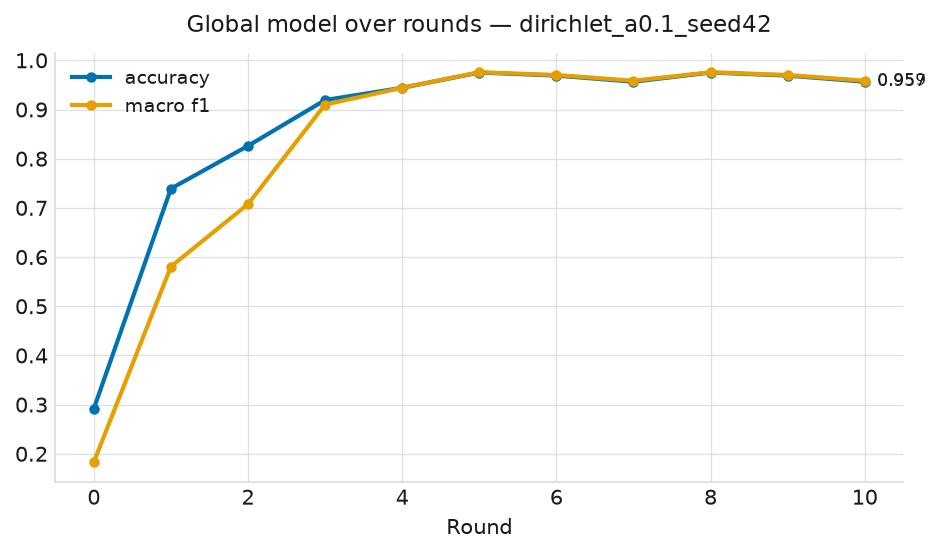
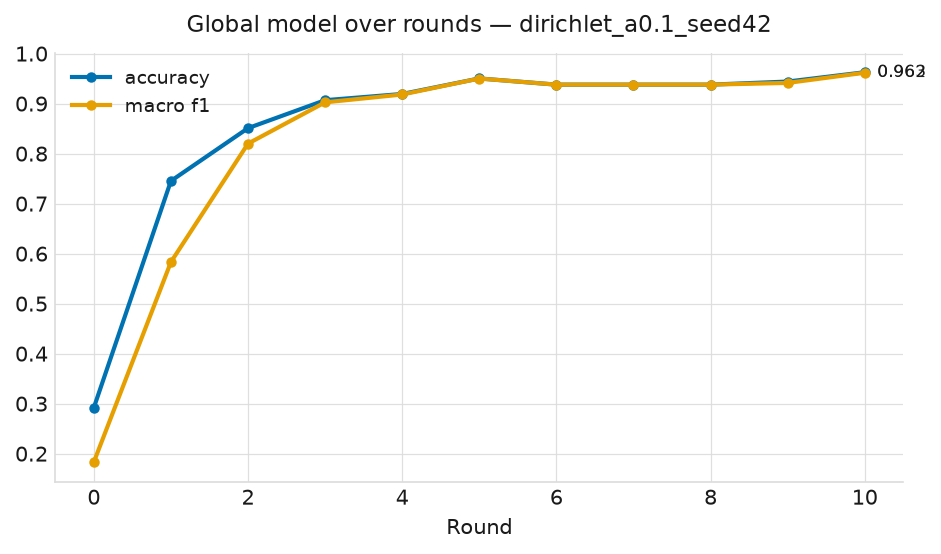
Verify FedAvg convergence; fix slug collision and client seeding
Answers the question the results could not previously support: does FedAvg
converge, and how does it compare to the centralized ceiling?

Convergence (all runs settle within 10 rounds):

  run              rounds-to-99%   final macro-F1   final loss   gap
  IID                     2            1.0000         0.0039    0.0000
  Dirichlet a=1.0         2            1.0000         0.0095    0.0000
  Dirichlet a=0.5         1            0.9866         0.0257    0.0134
  Dirichlet a=0.1         5            0.9585         0.1698    0.0415

Macro-F1 saturates and hides the real effect; the loss does not. At a=0.1
FedAvg settles at a loss ~44x the IID run's and stays there -- a worse
optimum, not merely slower convergence. New convergence.png plots both.

Two defects found while verifying:

  run_slug omitted `norm`, so the LayerNorm ablation wrote to the same
  directory as the BatchNorm run and silently destroyed it. Any knob that
  changes the result must appear in the slug; `norm` is now suffixed when it
  differs from the default, leaving existing paths unchanged.

  Federated runs were not reproducible: identical configs differed by ~0.015
  macro-F1. ClientApps run in separate simulation workers that never seeded,
  so dropout and shuffling varied per run. client_app now seeds on
  (seed, partition, round). This removes the client-side source but not all
  of it -- FedAvg aggregates replies in nondeterministic arrival order and
[…]

diff --git a/fl_rnaseq/scripts/make_report.py b/fl_rnaseq/scripts/make_report.py
@@ -193,6 +193,116 @@ def plot_alpha_sweep(df: pd.DataFrame, path: Path) -> None:
     plt.close(fig)
 
 
+def plot_convergence(rows: list[dict], df: pd.DataFrame, path: Path) -> None:
+    """FedAvg convergence across all federated runs, against the centralized ceiling.
+
+    Two panels sharing a round axis: macro-F1 (does it reach the ceiling?) and
+    test loss on a log scale (does it actually settle, and where?). The loss panel
+    is the informative one -- macro-F1 saturates and hides the fact that the
+    a=0.1 run plateaus at a far worse optimum rather than merely converging slower.
+    """
+    import matplotlib
+    matplotlib.use("Agg")
+    import matplotlib.pyplot as plt
+
+    fed = [r for r in rows if r["_family"] == "federated" and r.get("history")]
+    if not fed:
+        return
+    fed.sort(key=lambda r: (r["config"].get("alpha") is not None,
+                            -(r["config"].get("alpha") or 0)))
+
+    # Fixed hue per configuration, assigned in display order and never cycled.
+    colors = ["#0072B2", "#E69F00", "#009E73", "#D55E00", "#CC79A7"]
+    ceiling = df[df["family"] == "centralized"]["macro_f1"].max()
+
+    fig, (ax_f1, ax_loss) = plt.subplots(
+        1, 2, figsize=(11.4, 4.2), gridspec_kw={"wspace": 0.22}
+    )
+
+    for i, r in enumerate(fed):
+        h = r["history"]
+        rounds = [x["round"] for x in h]
+        label = r["slug"].replace("_seed42", "")
+        c = colors[i % len(colors)]
+        ax_f1.plot(rounds, [x["macro_f1"] for x in h], linewidth=2, marker="o",
+                   markersize=4, color=c, label=label)
+        ax_loss.plot(rounds, [x["loss"] for x in h], linewidth=2, marker="o",
+                     markersize=4, color=c, label=label)
+
+    if pd.notna(ceiling):
+        ax_f1.axhline(ceiling, color=INK_MUTED, linewidth=1, linestyle="--")
+        ax_f1.annotate(f"centralized {ceiling:.3f}", (0, ceiling),
+                       textcoords="offset points", xytext=(4, -12),
+                       fontsize=8, color=INK)
+
+    ax_f1.set_ylabel("macro-F1 on the global test set", color=INK)
+    ax_f1.set_title("Convergence: does it reach the ceiling?",
+                    color=INK, fontsize=10.5, pad=8)
+    ax_loss.set_yscale("log")
+    ax_loss.set_ylabel("test cross-entropy (log scale)", color=INK)
+    ax_loss.set_title("Convergence: where does the loss settle?",
+                      color=INK, fontsize=10.5, pad=8)
+
+    for ax in (ax_f1, ax_loss):
+        ax.set_xlabel("FedAvg round", color=INK)
+        ax.set_axisbelow(True)
+        ax.grid(True, color=GRID, linewidth=0.6)
+        for side in ("top", "right"):
+            ax.spines[side].set_visible(False)
+        for side in ("left", "bottom"):
+            ax.spines[side].set_color(GRID)
+        ax.tick_params(colors=INK_MUTED, length=0)
+        for lbl in ax.get_xticklabels() + ax.get_yticklabels():
+            lbl.set_color(INK)
+    ax_f1.legend(frameon=False, labelcolor=INK, fontsize=8.5, loc="lower right")
+
+    path.parent.mkdir(parents=True, exist_ok=True)
+    fig.savefig(path, dpi=150, bbox_inches="tight")
+    plt.close(fig)
+
+
+def _print_convergence_check(rows: list[dict], df: pd.DataFrame) -> None:
+    """Quantitative convergence verdict per federated run, versus the ceiling.
+
+    Reports rounds-to-99%-of-final (speed), the spread over the last three rounds
+    (has it settled, or is it still oscillating?), the final loss, and the gap to
+    the best centralized model.
+    """
+    fed = [r for r in rows if r["_family"] == "federated" and r.get("history")]
+    if not fed:
+        return
+    ceiling = df[df["family"] == "centralized"]["macro_f1"].max()
+
+    print(f"\nConvergence check (centralized ceiling = {ceiling:.4f})\n")
+    print(f"  {'run':<22}{'rounds':>8}{'final F1':>10}{'last-3 spread':>15}"
+          f"{'final loss':>12}{'gap':>9}")
+    print("  " + "-" * 76)
+
+    for r in sorted(fed, key=lambda r: r["slug"]):
+        h = r["history"]
+        f1 = [x["macro_f1"] for x in h]
+        final = f1[-1]
+        # First round reaching 99% of the final score.
+        hit = next((x["round"] for x in h if x["macro_f1"] >= 0.99 * final), None)
+        spread = max(f1[-3:]) - min(f1[-3:])
+        loss = h[-1]["loss"]
+        gap = ceiling - final
+        verdict = "settled" if spread <= 0.02 else "oscillating"
+        print(
+            f"  {r['slug'].replace('_seed42',''):<22}{hit if hit is not None else '-':>8}"
+            f"{final:>10.4f}{spread:>15.4f}{loss:>12.4f}{gap:>9.4f}  {verdict}"
+        )
+
+    losses = {r["slug"].replace("_seed42", ""): r["history"][-1]["loss"] for r in fed}
+    if "iid" in losses:
+        worst = max(losses, key=losses.get)
+        if worst != "iid" and losses["iid"] > 0:
+            print(
+                f"\n  Final loss for {worst} is {losses[worst] / losses['iid']:.0f}x the IID run's. "
+                "Under strong\n  heterogeneity FedAvg settles at a worse optimum, not merely a slower one."
+            )
+
+
 def _style(ax) -> None:
     ax.set_axisbelow(True)
     ax.grid(True, axis="y", color=GRID, linewidth=0.6)
@@ -229,6 +339,9 @@ def main() -> int:
 
     plot_headline(df, out / "headline_comparison.png")
     plot_alpha_sweep(df, out / "alpha_sweep.png")
+    plot_convergence(rows, df, out / "convergence.png")
+
+    _print_convergence_check(rows, df)
 
     env_lines = [f"split: {sha}", ""]
     if rows:

diff --git a/fl_rnaseq/fl_rnaseq/client_app.py b/fl_rnaseq/fl_rnaseq/client_app.py
@@ -11,8 +11,30 @@ from flwr.clientapp import ClientApp
 
 from fl_rnaseq.dataset import load_data
 from fl_rnaseq.task import MLP, test, train
+from fl_rnaseq.utils import set_seed
 
 app = ClientApp()
+
+
+def _seed_client(msg: Message, context: Context) -> None:
+    """Make this client's local training reproducible.
+
+    Each ClientApp invocation runs in its own simulation worker process, which
+    starts with unseeded RNG state -- so without this, dropout masks and
+    DataLoader shuffling differ between otherwise identical runs, and repeated
+    runs of the same config disagree by ~0.01 macro-F1.
+
+    The seed mixes in the round (Message.group_id) so a client does not replay
+    the identical dropout pattern every round, while staying deterministic
+    across runs.
+    """
+    try:
+        rnd = int(msg.metadata.group_id)
+    except (TypeError, ValueError):
+        rnd = 0
+    base = int(context.run_config["seed"])
+    pid = int(context.node_config["partition-id"])
+    set_seed(base * 100_000 + pid * 1_000 + rnd)
 
 
 def _loaders(context: Context):
@@ -34,6 +56,7 @@ def _loaders(context: Context):
 @app.train()
 def train_fn(msg: Message, context: Context) -> Message:
     cfg = context.run_config
+    _seed_client(msg, context)
     model = MLP(norm=cfg["norm"])
     model.load_state_dict(msg.content["arrays"].to_torch_state_dict())
     device = torch.device("cuda:0" if torch.cuda.is_available() else "cpu")
@@ -53,6 +76,7 @@ def train_fn(msg: Message, context: Context) -> Message:
 @app.evaluate()
 def evaluate_fn(msg: Message, context: Context) -> Message:
     cfg = context.run_config
+    _seed_client(msg, context)
     model = MLP(norm=cfg["norm"])
     model.load_state_dict(msg.content["arrays"].to_torch_state_dict())
     device = torch.device("cuda:0" if torch.cuda.is_available() else "cpu")

diff --git a/fl_rnaseq/fl_rnaseq/utils.py b/fl_rnaseq/fl_rnaseq/utils.py
@@ -88,14 +88,24 @@ def communication_cost(model: torch.nn.Module, num_clients: int, num_rounds: int
     }
 
 
-def run_slug(strategy: str, alpha: float | None = None, seed: int = 42) -> str:
+def run_slug(
+    strategy: str,
+    alpha: float | None = None,
+    seed: int = 42,
+    norm: str = "batch",
+) -> str:
     """Canonical directory name for one experiment configuration.
 
     Single source of truth so scripts and server_app cannot drift apart.
+
+    Every knob that changes the result must appear here, or two different
+    experiments write to the same directory and the second silently destroys the
+    first. `norm` is suffixed only when it differs from the default, so existing
+    result paths keep their names.
     """
-    if strategy == "iid" or alpha is None:
-        return f"iid_seed{seed}"
-    return f"{strategy}_a{alpha}_seed{seed}"
+    base = f"iid_seed{seed}" if (strategy == "iid" or alpha is None) \
+        else f"{strategy}_a{alpha}_seed{seed}"
+    return base if norm == "batch" else f"{base}_norm-{norm}"
 
 
 def _jsonable(obj: Any) -> Any:

diff --git a/fl_rnaseq/fl_rnaseq/server_app.py b/fl_rnaseq/fl_rnaseq/server_app.py
@@ -94,7 +94,7 @@ def main(grid: Grid, context: Context) -> None:
         evaluate_fn=global_evaluate,
     )
 
-    slug = run_slug(strategy_name, alpha, seed)
+    slug = run_slug(strategy_name, alpha, seed, norm=cfg["norm"])
     out_dir = Path(cfg["results-dir"]) / "federated" / slug
 
     payload = result_envelope(

diff --git a/README.md b/README.md
@@ -40,6 +40,44 @@ Global test set: 161 samples, stratified, identical across all 16 experiments
 | Dirichlet α=0.5 (0.152) | 0.9115 | **0.9866** | +0.075 |
 | Dirichlet α=0.1 (0.373) | **0.4137** | **0.9585** | **+0.545** |
 
+### FedAvg convergence
+
+All four federated runs settle within 10 rounds (spread over the last three
+rounds ≤ 0.02). Speed is not the interesting axis — where the loss *lands* is:
+
+| Run | Rounds to 99 % of final | Final macro-F1 | Final test loss | Gap to ceiling |
+|---|---|---|---|---|
+| IID | 2 | 1.0000 | 0.0039 | 0.0000 |
+| Dirichlet α=1.0 | 2 | 1.0000 | 0.0095 | 0.0000 |
+| Dirichlet α=0.5 | 1 | 0.9866 | 0.0257 | 0.0134 |
+| Dirichlet α=0.1 | 5 | 0.9585 | **0.1698** | 0.0415 |
+
+The α=0.1 run converges to a loss **44× higher** than the IID run and stays
+there — under strong heterogeneity FedAvg settles at a *worse optimum*, not
+merely a slower one. Macro-F1 alone hides this, because it saturates; the loss
+curve in `results/summary/convergence.png` shows it plainly.
+
+**Federated runs are not bit-reproducible.** Repeating an identical config
+(same seed, same shards) gives macro-F1 varying by ~0.015 at α=0.1 — about 2.5
+of the 161 test samples. Seeding the clients (`_seed_client` in `client_app.py`,
+keyed on partition and round) removed the client-side source; the residual comes
+from FedAvg aggregating client replies in the simulation's nondeterministic
+arrival order, where non-associative float addition compounds over 10 rounds.
+**Treat single-run differences below ~0.02 macro-F1 as noise.**
+
+**Part of the α=0.1 gap is BatchNorm.** FedAvg weight-averages BatchNorm's
+running mean/variance buffers across clients whose distributions differ — a known
+failure mode (cf. FedBN). Measured over repeated runs at α=0.1:
+
+| α=0.1 | n | macro-F1 (mean) | Observed range |
+|---|---|---|---|
+| BatchNorm | 3 | 0.9555 | [0.9463, 0.9618] |
+| **LayerNorm** | 2 | **0.9779** | **[0.9745, 0.9813]** |
+
+The ranges do not overlap, so the ~0.022 LayerNorm advantage survives the
+run-to-run noise: buffer averaging — not only client drift in the weights — is
+causing part of the degradation. Small n; more repeats would tighten it.
+
 ### What the numbers say
 
 **The headline is not accuracy.** The five tumour types are near-linearly
@@ -66,6 +104,13 @@ sensible method saturates. The findings that survive scrutiny:
 - Single seed (42) per configuration. The α=1.0 local-only point (0.845) scoring
   below α=0.5 (0.912) is single-draw noise — their JS divergences are 0.115 and
   0.152, close enough to reorder. Multi-seed runs are the obvious next step.
+- Federated results carry ~±0.015 macro-F1 of run-to-run variance (above), so
+  the federated column should be read as approximate at the third decimal. The
+  centralized and local-only scripts *are* deterministic.
+- The centralized/local-only baselines were first run under scikit-learn 1.4.2
+  (system Python) and the federated runs under 1.9.0 (venv). The split
+  fingerprint is identical under both; for a clean write-up, re-run everything
+  from the venv.
 - Local-only and federated share partitions at each α; the `dirichlet-legacy`
   rows in `summary.csv` use the hand-rolled partitioner and are kept only as a
   cross-implementation check.
